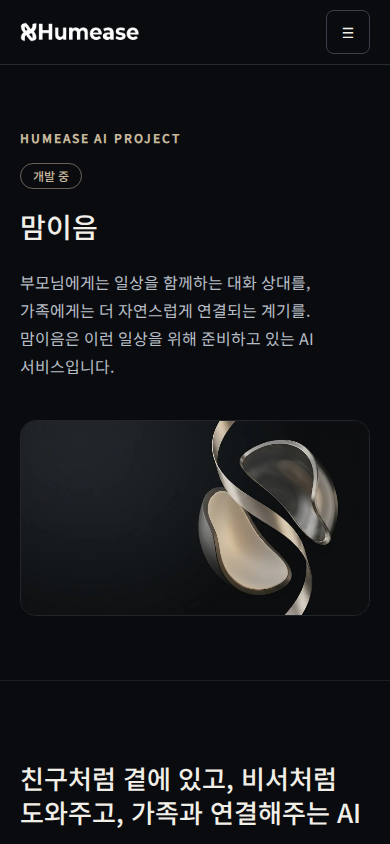
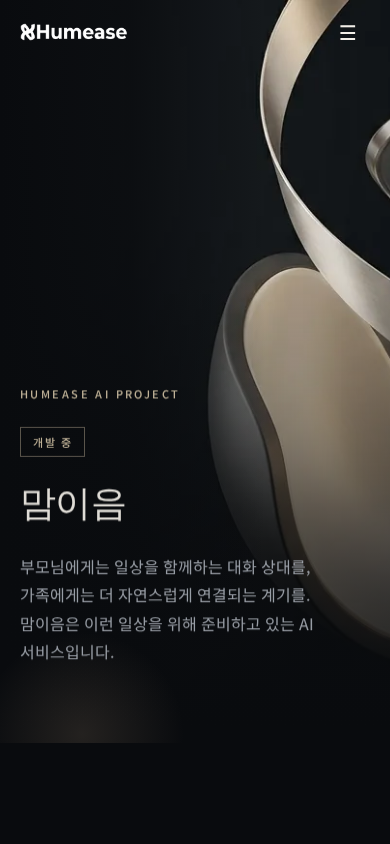
[검수] G2 리디자인 시각 QA — FAIL기준 5/5·반응형 5뷰포트·회귀 13/13·성능 93 PASS

diff --git a/docs/reports/G2_REDESIGN_QA.md b/docs/reports/G2_REDESIGN_QA.md
@@ -1,0 +1,77 @@
+# G2 리디자인 시각 QA 결과
+
+- 실행: 2026-09-06 / Asia/Seoul
+- 대상: https://humease21.github.io/humease-web-v2/ (커밋 `885428f`)
+- 범위: **시각 레이어 전면 재설계.** 콘텐츠·라우팅·SEO·정적 Export·문의 구조·도메인 계획 무변경
+
+## 1. FAIL 기준 5개 — 12페이지 전부 통과
+
+지시된 실패 조건을 자동 검사로 만들어 매 배포마다 돌린다(`tests/design-qa.mjs`).
+
+| 기준 | 검사 방법 | 결과 |
+|---|---|---|
+| 이미지가 카드 안에 갇힘 | 이미지 상위 3세대에 `border-radius ≥ 8px` + border/overflow 래퍼가 있고 폭이 뷰포트 92% 미만인 경우 | **0건** |
+| 일반 IT 템플릿처럼 보임 | 동일 클래스의 rounded+border 블록이 3회 이상 반복 | **0건** |
+| 한 화면에 정보가 너무 많음 | 첫 뷰포트 안 텍스트 420자 초과 | **0건** |
+| 보라색 AI SaaS 느낌 | 배경·그라디언트에서 B가 R·G보다 크게 우세한 색 2건 초과 | **0건** |
+| Hero 높이 미달 | 홈 첫 섹션이 88svh 미만 | **94svh 충족** |
+
+## 2. 반응형 — 5개 뷰포트
+
+1920×1080 · 1440×900 · 768 · 390 · 320 에서 6개 대표 페이지 검사. **가로 넘침 0건.**
+증거: `docs/reports/evidence/redesign/` 35장.
+
+## 3. 기능·라우팅·SEO 회귀 — 13/13 PASS
+
+리디자인 전과 동일 기준으로 재실행했다.
+
+공개 12개 라우트 200 · 진짜 404 · H1 1개/페이지 · title·canonical 각 12종 고유 ·
+sitemap 12건 · axe WCAG 2.1 AA 위반 0 · skip link · 200% 확대 · 모바일 메뉴 키보드·Escape·포커스 복귀 ·
+모바일 Hero desktop 미요청 · 4xx/5xx 0 · 클라이언트 번들 비밀 노출 0 · Vite 잔재 0
+
+## 4. 성능 — 리디자인 후 재측정
+
+로컬 프로덕션 빌드(gzip, basePath 없음 = 도메인 전환 후 조건) 5회 중앙값.
+
+| 지표 | 리디자인 전 | 리디자인 후 | 목표 |
+|---|---|---|---|
+| Performance | 98 | **93** | 90 PASS |
+| Accessibility | 100 | **100** | 95 PASS |
+| Best Practices | 100 | **100** | 95 PASS |
+| SEO | 100 | **100** | 95 PASS |
+| LCP | 2,272ms | 3,141ms | — |
+| CLS | 0.000 | **0.000** | — |
+| TBT | — | 119ms | — |
+| 전송량 | 319KB | 352KB | 1.5MB 이하 |
+
+Performance 98 → 93 은 full-bleed Hero 가 화면 전체를 덮으면서 LCP 이미지가 커진 결과다.
+목표 90 은 유지하며 CLS 는 0을 유지했다. 개별 실행 92/98/93/92/98.
+
+## 5. 리디자인 중 잡은 회귀 3건
+
+**승인 카피 2건 누락 (CRITICAL).** 시각 재설계 과정에서 공용 컴포넌트가 페이지 전용 문구를 덮어썼다.
+`verify-copy` 가 잡았다.
+- P02 `/about` — "Enterprise IT와 데이터 컴플라이언스에 대한 실무 경험을 바탕으로 설계와 구현을 지원합니다."
+- P08 `/ai-services` — "부모님과 자연스럽게 대화하고 일상을 돕는 경험을 통해 가족의 연결을 지원하는 AI 서비스를 준비합니다."
+
+**검수 스크립트 오탐 (자체 결함).** lazy 이미지가 뷰포트 밖일 때 `naturalWidth 0` 을 로드 실패로 오판했다.
+스크롤 후 `document.images.every(i => i.complete)` 를 명시적으로 기다리도록 고쳤다.
+고정 대기 시간에 의존하면 긴 페이지에서 재발한다.
+
+## 6. 접근성·모션
+
+- `prefers-reduced-motion: reduce` 에서 모든 `[data-reveal]` 이 즉시 최종 상태가 되고
+  `DataTransition` 은 두 메시지를 동시에 정적으로 보여준다. 장면 이해에 애니메이션이 필요 없다.
+- 스크롤 하이재킹 없음. sticky 장면 안에서 진행도만 읽고 스크롤을 가로채지 않는다.
+- 모션은 760~900ms `cubic-bezier(0.16, 0.84, 0.3, 1)`. bounce·shake·파티클·커서 트레일·자동재생 없음.
+- 모션 라이브러리를 추가하지 않았다. IntersectionObserver 와 CSS 트랜지션만 사용한다.
+- 모바일 메뉴를 body portal 로 옮겨 헤더 `backdrop-filter` 가 `position:fixed` 의
+  containing block 을 만드는 문제를 원천 차단했다.
+
+## 7. 대표님 판단이 필요한 항목
+
+자동 검사는 "템플릿처럼 보이지 않는다"를 구조적으로만 확인한다. **인상·품격은 육안 판단 영역이다.**
+`docs/reports/evidence/redesign/` 의 1920·1440·768·390·320 스크린샷으로 확인 부탁드린다.
+
+`docs/reports/QA_REQUEST.md` 의 미해결 항목(이미지 매핑 시각 확인, 회사 정보, 경력 문구 승인,
+실기기 확인, 문의·정책·관리자·도메인 전환 승인)은 이번 리디자인으로 바뀌지 않았다.
